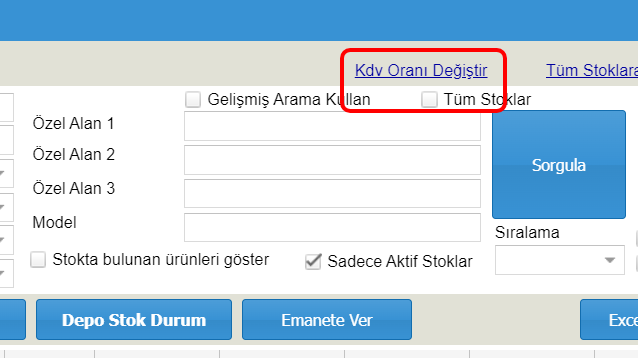
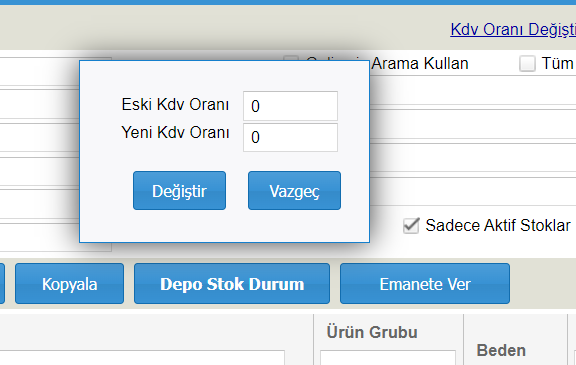
GITBOOK-94: EBS's Jul 11 changes

diff --git a/stok-islemleri/toplu-kdv-orani-degistirme.md b/stok-islemleri/toplu-kdv-orani-degistirme.md
@@ -12,9 +12,10 @@ Stok listesi ekranında kdv oranı değiştirilecek stokları listeleyiniz(Filtr
 
 Daha sonra **Stok listesi** ekranın üst kısmında **KDV Oranı değiştir** linki bulunmaktadır. Bu linke tıklayarak kdv oranı değiştirme ekranını açabilirsiniz.
 
-![](../.gitbook/assets/image.png)
+![](<../.gitbook/assets/image (1).png>)
 
-Kdv Oranı değiştirme ekranında stok listesi ekranında listelenen stoklara uygulanacak yeni kdv oranını yazıp **Değiştir** butonuna tıklamalısınız.
+Kdv Oranı değiştirme ekranında stok listesi ekranında listelenen stoklara uygulanacak yeni kdv oranını yazıp **Değiştir** butonuna tıklamalısınız.\
+![](../.gitbook/assets/image.png)
 
 Böylece listelenen stokların kdv'leri yeni girdiğimiz kdv oranına göre değiştirilecektir.
 

diff --git a/stok-islemleri/siparisten-stok-girisi.md b/stok-islemleri/siparisten-stok-girisi.md
@@ -4,7 +4,7 @@ description: Sipariş edilen ürünlerin stok fişi ekranından alıma dönüşt
 
 # Siparişten Stok Girişi
 
-<figure><img src="../.gitbook/assets/image (1).png" alt=""><figcaption></figcaption></figure>
+<figure><img src="../.gitbook/assets/image (1) (2).png" alt=""><figcaption></figcaption></figure>
 
 **Sipariş-->Verilen Sipariş** menüsünden girişlerini yaptığımız siparişleri alım gerçekleştikten sonra stoklarımıza girmek için **Stok Giriş** butonuna tıklanır.
 
